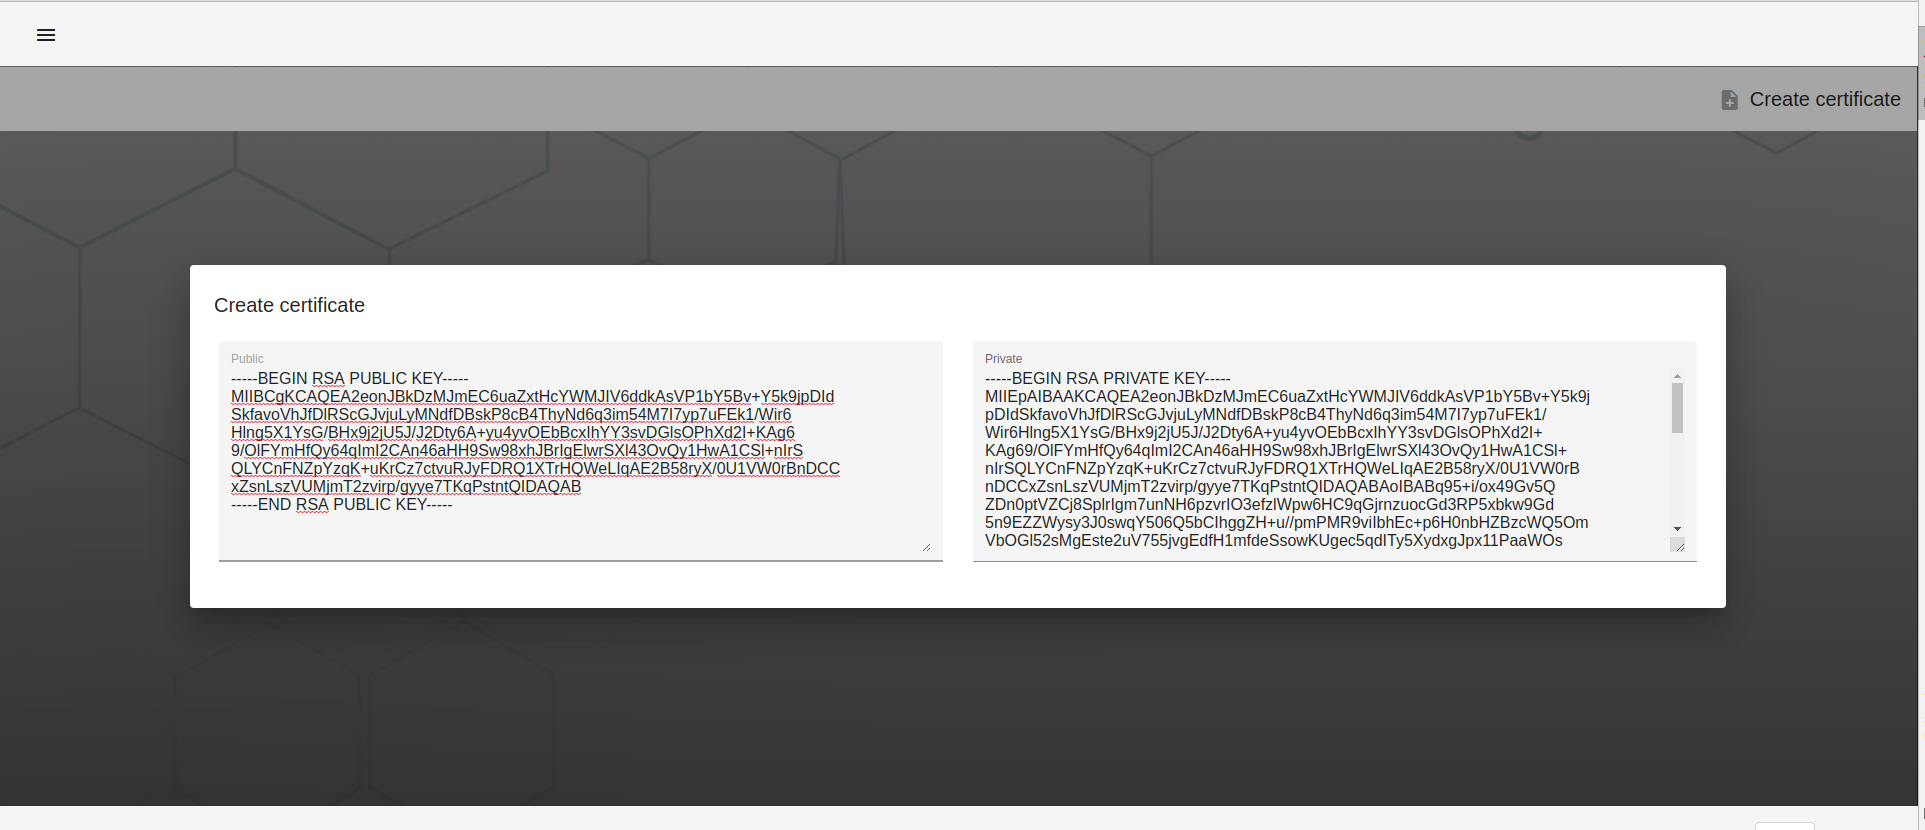
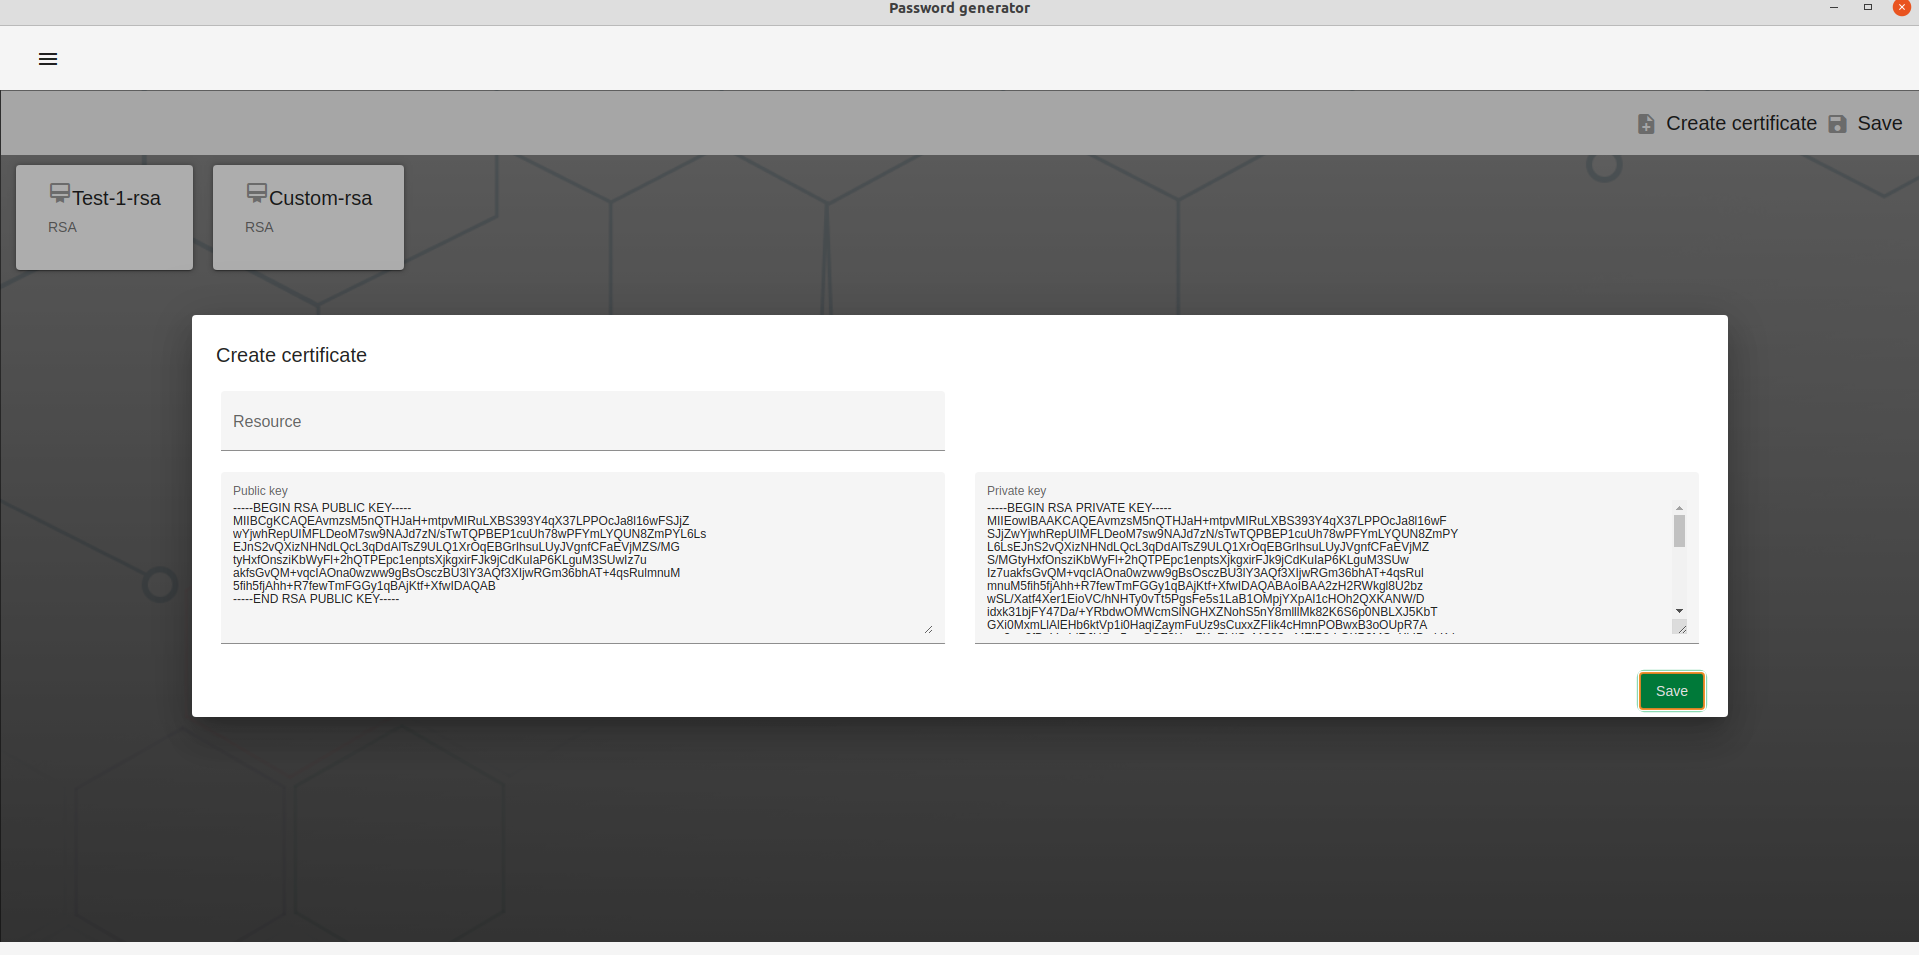
CSS styles Crate certificate view

diff --git a/src/app/certificates/certificates.component.ts b/src/app/certificates/certificates.component.ts
@@ -10,11 +10,28 @@ import {ElectronService} from '../@core/electron.service';
 })
 export class CertificatesComponent implements OnInit {
 
+    certificates: any[] = [];
+    searchText: any;
+    fs: any;
+    fileExtension = '.certs';
+    electron: any;
+
     constructor(public dialog: MatDialog,
-                private electron: ElectronService) {
+                private electronService: ElectronService) {
     }
 
     ngOnInit(): void {
+        this.fs = this.electronService.fs;
+        this.electron = this.electronService.electron;
+    }
+
+    get cardCertificates() {
+        if (!this.searchText) {
+            return this.certificates;
+        }
+        console.debug(this.searchText);
+        return this.certificates.filter(f => f.site.toLowerCase().indexOf(this.searchText.toLowerCase()) > -1
+            || f.comment.toLowerCase().indexOf(this.searchText.toLowerCase()) > -1);
     }
 
     createRsa() {
@@ -24,9 +41,48 @@ export class CertificatesComponent implements OnInit {
             data: {
                 title: 'Create certificate',
                 item: {
-                    certData: this.electron.crypto.generateKeyPairSync("rsa", {modulusLength: 2048}),
+                    name: '',
+                    site: '',
+                    certData: this.electronService.crypto.generateKeyPairSync("rsa", {modulusLength: 2048}),
                 },
             },
         });
+        dialogRef.afterClosed().subscribe(result => {
+            if (result) {
+                result.publicData = result.certData.publicKey.export({
+                    type: "pkcs1",
+                    format: "pem",
+                });
+                result.privateData = result.certData.privateKey.export({
+                    type: "pkcs1",
+                    format: "pem",
+                });
+                this.certificates.push(result);
+                console.debug('Add cert: ', result);
+            }
+        });
+    }
+
+    save() {
+        this.electron.remote.dialog.showSaveDialog({
+                properties: ['createDirectory', 'showOverwriteConfirmation'],
+                filters: [
+                    {name: 'User configuration', extensions: [this.fileExtension]},
+                    {name: 'All Files', extensions: ['*']},
+                ],
+                defaultPath: `certificates${this.fileExtension}`,
+            },
+        ).then(file => {
+            if (!file.canceled) {
+                this.fs.writeFileSync(file.filePath.toString(), JSON.stringify(this.certificates), (err) => {
+                    if (err) {
+                        console.debug("An error ocurred creating the file " + err.message);
+                    }
+                    console.debug("The file has been succesfully saved");
+                });
+            }
+        }).catch(err => {
+            console.debug(err);
+        })
     }
 }

diff --git a/src/app/app.module.ts b/src/app/app.module.ts
@@ -2,9 +2,9 @@ import {BrowserModule} from '@angular/platform-browser';
 import {NgModule} from '@angular/core';
 import {AppRoutingModule} from './app-routing.module';
 import {AppComponent} from './app.component';
-import {UserItemComponent} from './user-item/user-item.component';
+import {UserItemComponent} from './password-cards/user-item/user-item.component';
 import {MAT_DIALOG_DEFAULT_OPTIONS, MatDialogModule} from '@angular/material/dialog';
-import {UserItemDialogComponent} from './user-item-dialog/user-item-dialog.component';
+import {UserItemDialogComponent} from './dialogs/users/user-item-dialog/user-item-dialog.component';
 import {BrowserAnimationsModule, NoopAnimationsModule} from '@angular/platform-browser/animations';
 import {FormsModule} from '@angular/forms';
 import {MatInputModule} from '@angular/material/input';
@@ -28,6 +28,8 @@ import {MatMenuModule} from '@angular/material/menu';
 import {MatTooltipModule} from '@angular/material/tooltip';
 import {NewRsaCertComponent} from './dialogs/certs/new-rsa-cert/new-rsa-cert.component';
 import {MatSelectModule} from '@angular/material/select';
+import { CertificateItemComponent } from './certificates/certificate-item/certificate-item.component';
+import {MatCardModule} from '@angular/material/card';
 
 export function HttpLoaderFactory(http: HttpClient) {
     return new TranslateHttpLoader(http);
@@ -57,6 +59,7 @@ const MATERIAL_MODULES = [
         UserItemComponent,
         CertificatesComponent,
         PasswordCardsComponent,
+        CertificateItemComponent,
     ],
     imports: [
         BrowserModule,
@@ -76,6 +79,7 @@ const MATERIAL_MODULES = [
         ScrollingModule,
         ...MATERIAL_MODULES,
         MatSelectModule,
+        MatCardModule,
     ],
     exports: [],
     providers: [],

diff --git a/src/app/dialogs/certs/new-rsa-cert/new-rsa-cert.component.html b/src/app/dialogs/certs/new-rsa-cert/new-rsa-cert.component.html
@@ -1,11 +1,21 @@
 <div mat-dialog-title>{{data.title | translate }}</div>
 <div class="row">
     <mat-form-field class="col-md-6" appearance="fill">
-        <mat-label>Public</mat-label>
-        <textarea rows="10" matInput [value]="certPublicInfo"></textarea>
-    </mat-form-field>
-    <mat-form-field class="col-md-6" appearance="fill">
-        <mat-label>Private</mat-label>
-        <textarea rows="10" matInput [value]="certPrivateInfo"></textarea>
+        <mat-label>{{ 'Resource' | translate }}</mat-label>
+        <input type="text" matInput [(ngModel)]="data.item.site">
     </mat-form-field>
 </div>
+<div class="row">
+    <mat-form-field class="col-md-6" appearance="fill">
+        <mat-label>{{ 'Public key' | translate }}</mat-label>
+        <textarea style="font-size: 12px;" rows="10" matInput [value]="certPublicInfo"></textarea>
+    </mat-form-field>
+    <mat-form-field class="col-md-6" appearance="fill">
+        <mat-label>{{ 'Private key' | translate }}</mat-label>
+        <textarea style="font-size: 12px;" rows="10" matInput [value]="certPrivateInfo"></textarea>
+    </mat-form-field>
+</div>
+<mat-dialog-actions align="end">
+    <button class="btn-success" mat-button [mat-dialog-close]="data.item"
+            cdkFocusInitial>{{ 'Save' | translate }}</button>
+</mat-dialog-actions>

diff --git a/src/app/@core/local/locals.ts b/src/app/@core/local/locals.ts
@@ -18,11 +18,14 @@ export class Local {
             Load: 'Load',
             Save: 'Save',
             Certificates: 'Certificates',
+            'Public key': 'Public key',
+            'Private key': 'Private key',
             'Create certificate': 'Create certificate',
             'Password cards': 'Password cards',
             Comment: 'Comment',
             Login: 'Login',
             Site: 'Site',
+            Resource: 'Resource',
         }
     }
 
@@ -45,11 +48,14 @@ export class Local {
             Load: 'Загрузить',
             Save: 'Сохранить',
             Certificates: 'Сертификаты',
+            'Public key': 'Публичный ключ',
+            'Private key': 'Приватный ключ',
             'Create certificate': 'Создать сертификат',
             'Password cards': 'Карточки ресурсов',
             Comment: 'Коментарий',
             Login: 'Логин',
             Site: 'Сайт',
+            Resource: 'Ресурс',
         }
     }
 }

diff --git a/src/app/password-cards/password-cards.component.ts b/src/app/password-cards/password-cards.component.ts
@@ -1,7 +1,7 @@
 import {Component, OnInit} from '@angular/core';
 import {MatDialog} from '@angular/material/dialog';
 import {ElectronService} from '../@core/electron.service';
-import {UserItemDialogComponent} from '../user-item-dialog/user-item-dialog.component';
+import {UserItemDialogComponent} from '../dialogs/users/user-item-dialog/user-item-dialog.component';
 import {MakePassword} from '../@core/utils';
 
 @Component({
@@ -91,7 +91,7 @@ export class PasswordCardsComponent implements OnInit {
         this.electron.remote.dialog.showSaveDialog({
                 properties: ['createDirectory', 'showOverwriteConfirmation'],
                 filters: [
-                    {name: 'User configuration', extensions: ['pg']},
+                    {name: 'User configuration', extensions: [this.fileExtension]},
                     {name: 'All Files', extensions: ['*']},
                 ],
                 defaultPath: `userData${this.fileExtension}`,

diff --git a/src/app/certificates/certificates.component.html b/src/app/certificates/certificates.component.html
@@ -4,4 +4,13 @@
         <mat-icon color="primary">note_add</mat-icon>
     </button>
     <span>{{ 'Create certificate' | translate }}</span>
+    <button *ngIf="certificates.length > 0" mat-icon-button class="example-icon" (click)="save()">
+        <mat-icon color="primary">save</mat-icon>
+    </button>
+    <span *ngIf="certificates.length > 0">{{ 'Save' | translate }}</span>
 </mat-toolbar>
+<div class="container-fluid">
+    <div class="row">
+        <app-certificate-item [item]="item" *ngFor="let item of cardCertificates"></app-certificate-item>
+    </div>
+</div>

diff --git a/src/app/certificates/certificate-item/certificate-item.component.html b/src/app/certificates/certificate-item/certificate-item.component.html
@@ -1,0 +1,14 @@
+<mat-card>
+    <mat-card-header>
+        <mat-card-title>
+            <mat-icon color="primary">card_membership</mat-icon>
+            <span>{{item.site}}</span>
+        </mat-card-title>
+        <mat-card-subtitle>
+            {{item.certData.publicKey.asymmetricKeyType | uppercase }}
+            <span>{{item.certData.publicKey.asymmetricKeySize}}</span>
+        </mat-card-subtitle>
+    </mat-card-header>
+    <!--<mat-card-content></mat-card-content>-->
+<!--    <mat-card-actions></mat-card-actions>-->
+</mat-card>

diff --git a/src/app/app.component.ts b/src/app/app.component.ts
@@ -1,6 +1,6 @@
 import {Component, OnDestroy, OnInit} from '@angular/core';
 import {MatDialog} from '@angular/material/dialog';
-import {UserItemDialogComponent} from './user-item-dialog/user-item-dialog.component';
+import {UserItemDialogComponent} from './dialogs/users/user-item-dialog/user-item-dialog.component';
 import {MakePassword} from './@core/utils';
 import {ElectronService} from './@core/electron.service';
 import {TranslateService} from '@ngx-translate/core';

diff --git a/src/app/password-cards/user-item/user-item.component.ts b/src/app/password-cards/user-item/user-item.component.ts
@@ -1,7 +1,7 @@
 import {Component, Input, OnInit, Output, EventEmitter} from '@angular/core';
 import {ClipboardService} from 'ngx-clipboard';
 import {ToastrService} from 'ngx-toastr';
-import {ElectronService} from '../@core/electron.service';
+import {ElectronService} from '../../@core/electron.service';
 import {TranslateService} from '@ngx-translate/core';
 
 @Component({

diff --git a/src/app/certificates/certificate-item/certificate-item.component.ts b/src/app/certificates/certificate-item/certificate-item.component.ts
@@ -1,0 +1,17 @@
+import {Component, Input, OnInit} from '@angular/core';
+
+@Component({
+  selector: 'app-certificate-item',
+  templateUrl: './certificate-item.component.html',
+  styleUrls: ['./certificate-item.component.scss']
+})
+export class CertificateItemComponent implements OnInit {
+
+  @Input() item;
+
+  constructor() { }
+
+  ngOnInit(): void {
+  }
+
+}

diff --git a/src/app/dialogs/users/user-item-dialog/user-item-dialog.component.ts b/src/app/dialogs/users/user-item-dialog/user-item-dialog.component.ts
@@ -1,6 +1,6 @@
 import {Component, Inject, OnInit} from '@angular/core';
 import {MAT_DIALOG_DATA, MatDialogRef} from '@angular/material/dialog';
-import {MakePassword} from '../@core/utils';
+import {MakePassword} from '../../../@core/utils';
 
 @Component({
     selector: 'app-user-item-dialog',

diff --git a/src/app/certificates/certificates.component.scss b/src/app/certificates/certificates.component.scss
@@ -1,3 +1,13 @@
 .example-spacer {
   flex: 1 1 auto;
 }
+
+app-certificate-item {
+  max-width: 300px;
+  margin: 10px;
+  box-shadow: 0 0 6px rgba(0, 0, 0, 0.3);
+}
+
+mat-card-header {
+  font-size: 12px;
+}
